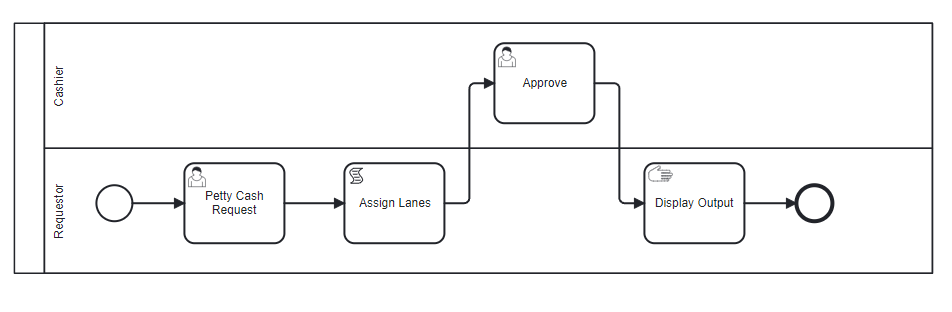
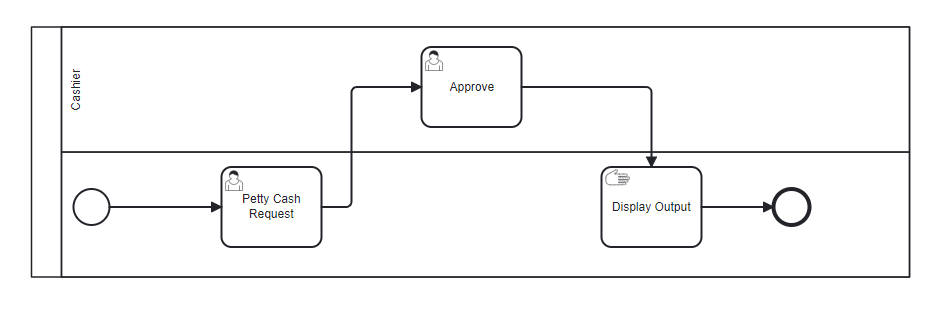
Remove Get_Current_User

Changed region(s): [[0.0, 0.0581, 0.9883, 0.9]]

diff --git a/docs/Building_Diagrams/pools_and_lanes.md b/docs/Building_Diagrams/pools_and_lanes.md
@@ -80,7 +80,7 @@ The process is structured around different tasks allocated to lane and pools, em
 #### BPMN Diagram
 ![Lanes and Pools Example](images/lanes_pools_example_1.png)
 
-**Process Flow:**
+**Process Flow:**   
 
 1. **Start Event**: The workflow kicks off with a start event signaling the initiation of a petty cash request.
 
@@ -88,34 +88,24 @@ The process is structured around different tasks allocated to lane and pools, em
 
     ![Lanes and Pools Example](images/lanes_pools_example_2.png)
 
-3. **Script Task: Assign Lanes** : This script dynamically designates the lane owner for the next task based on the user's role, ensuring the "Cashier" is set as the lane owner for subsequent approval tasks.
+The process transitions from the Requester Lane to the Cashier Lane within the Cashier Pool for approval.
 
+3. **User Task: Approve Petty Cash**: In this task, cashiers review and approve the petty cash request, recording the approver’s name for accountability.
 
-    **Script**:
-     ```python
-     requested_by = get_current_user()['username']
-     lane_owners = {"Cashier": [get_current_user()['username']]}
-     ```
-     
-
-   The process transitions from the Requester Lane to the Cashier Lane within the Cashier Pool for approval.
-
-5. **User Task: Approve Petty Cash**: In this task, cashiers review and approve the petty cash request, recording the approver’s name for accountability.
     ![Lanes and Pools Example](images/lanes_pools_example_3.png)
 
-   After approval, the workflow returns to the Requester Lane for final confirmation and display of the approval outcome.
+After approval, the workflow returns to the Requester Lane for final confirmation and display of the approval outcome.
 
-7. **Manual Task: Display Output**:
+4. **Manual Task: Display Output**:
 
-   **Display Message**:
-     
-     ```
-     #### Your petty cash request for {{amount}} has been approved by {{approved_by}}
-     ```
-     
-     This message informs the requester of the approval status, including the approved amount and the name of the approver. After manual task, marks the end of the process.
+**Display Message**:
 
-    ![Lanes and Pools Example](images/lanes_pools_example_4.png)
+```markdown
+Your petty cash request for {{amount}} has been approved by {{approved_by}}
+```
+This message informs the requester of the approval status, including the approved amount and the name of the approver. After manual task, marks the end of the process.
+
+![Lanes and Pools Example](images/lanes_pools_example_4.png)
 
 
 This BPMN diagram effectively uses Lanes and pools to structure a petty cash request process, ensuring that responsibilities are clearly assigned and the workflow is logically organized.
